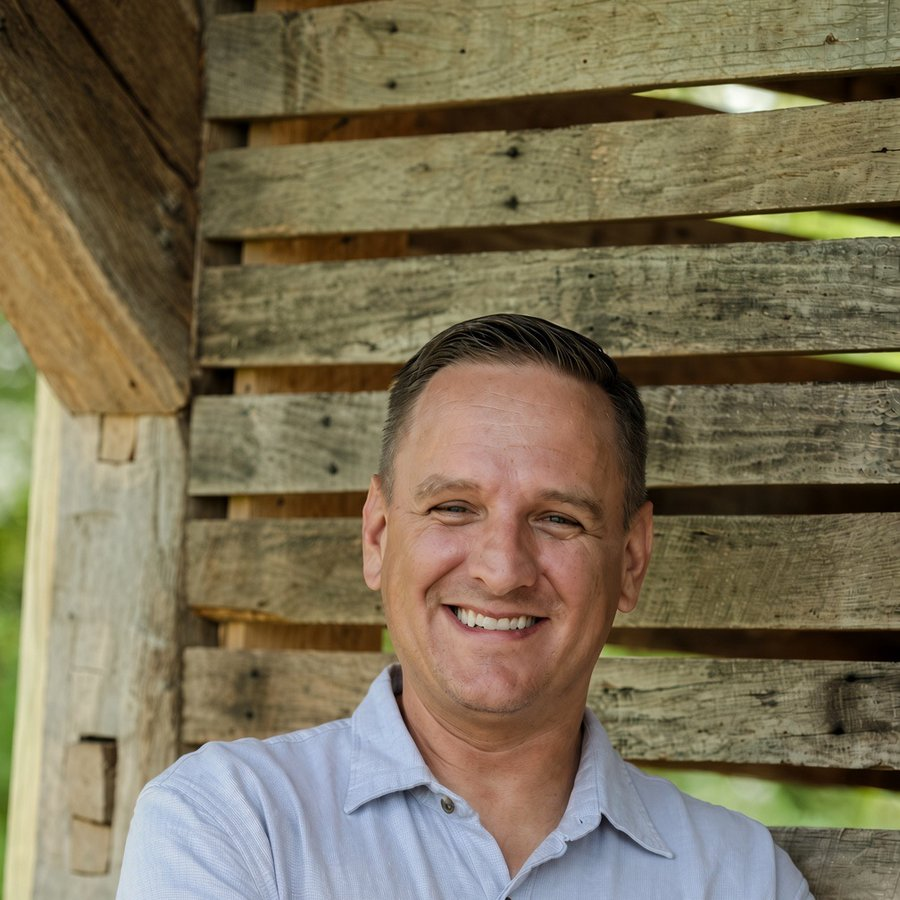
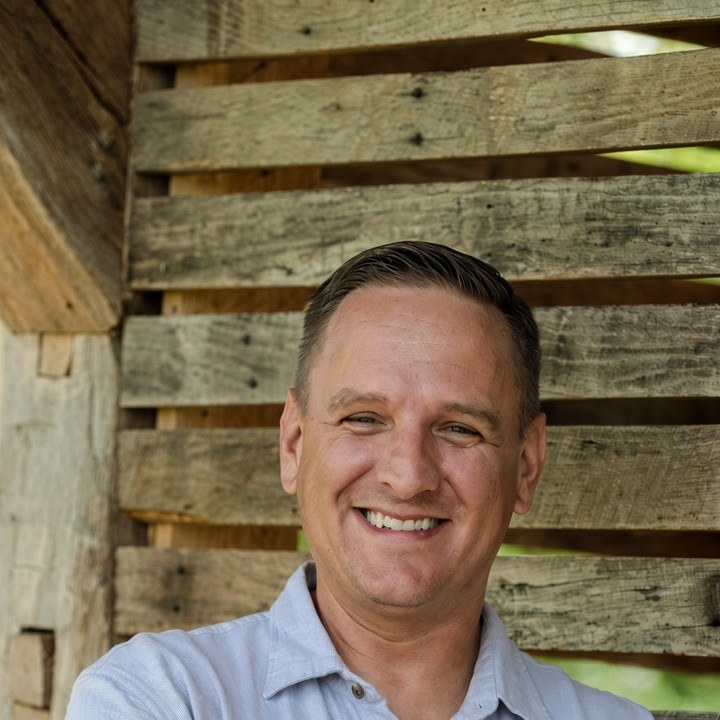
Fix homepage headshot crop centering
Swap in the face-centered 720×720 square and set object-position to
center so the circular portrait frame frames the face cleanly.

diff --git a/public/css/styles.css b/public/css/styles.css
@@ -273,7 +273,7 @@ h3 {
   height: 100%;
   display: block;
   object-fit: cover;
-  object-position: center 18%;
+  object-position: center center;
   filter: saturate(0.92) contrast(1.04);
 }
 
